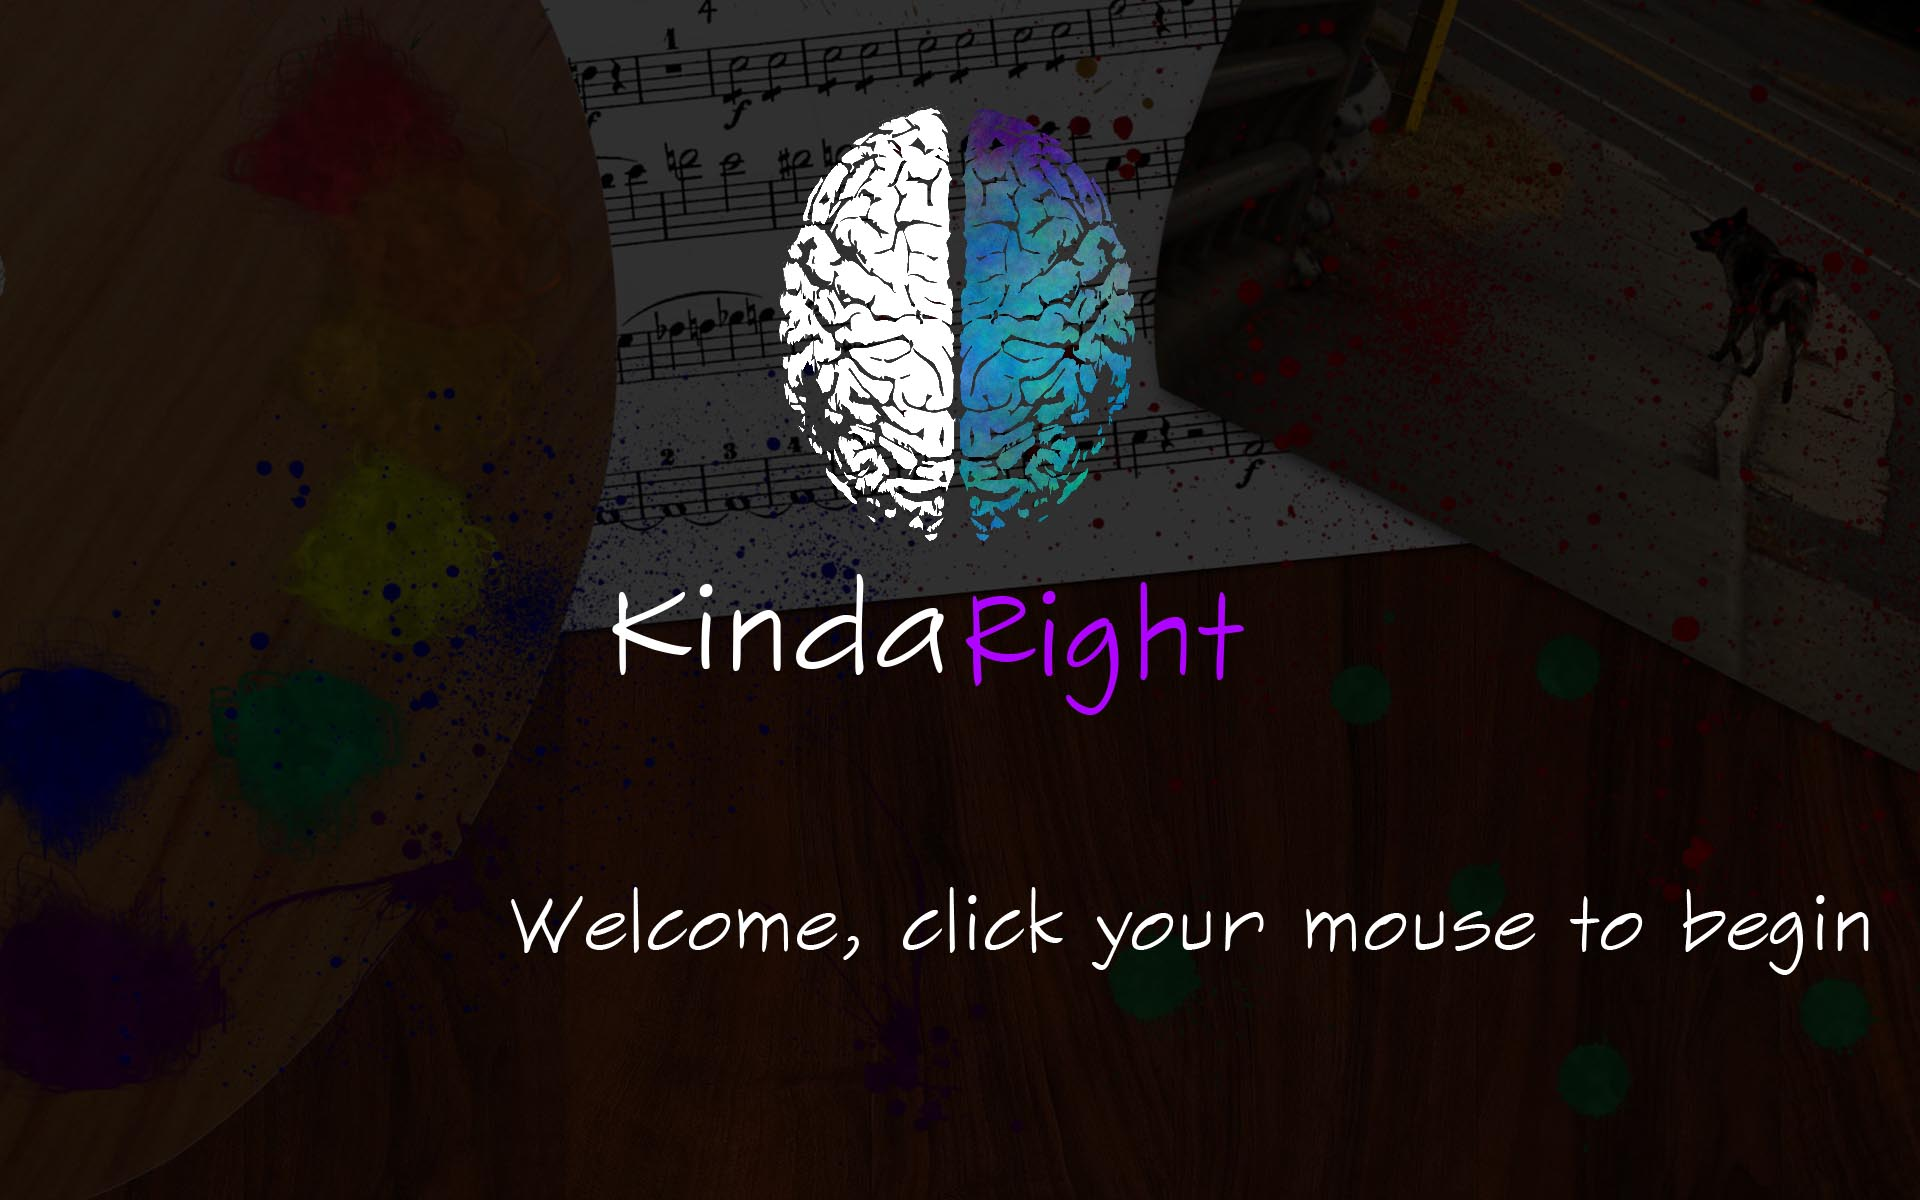
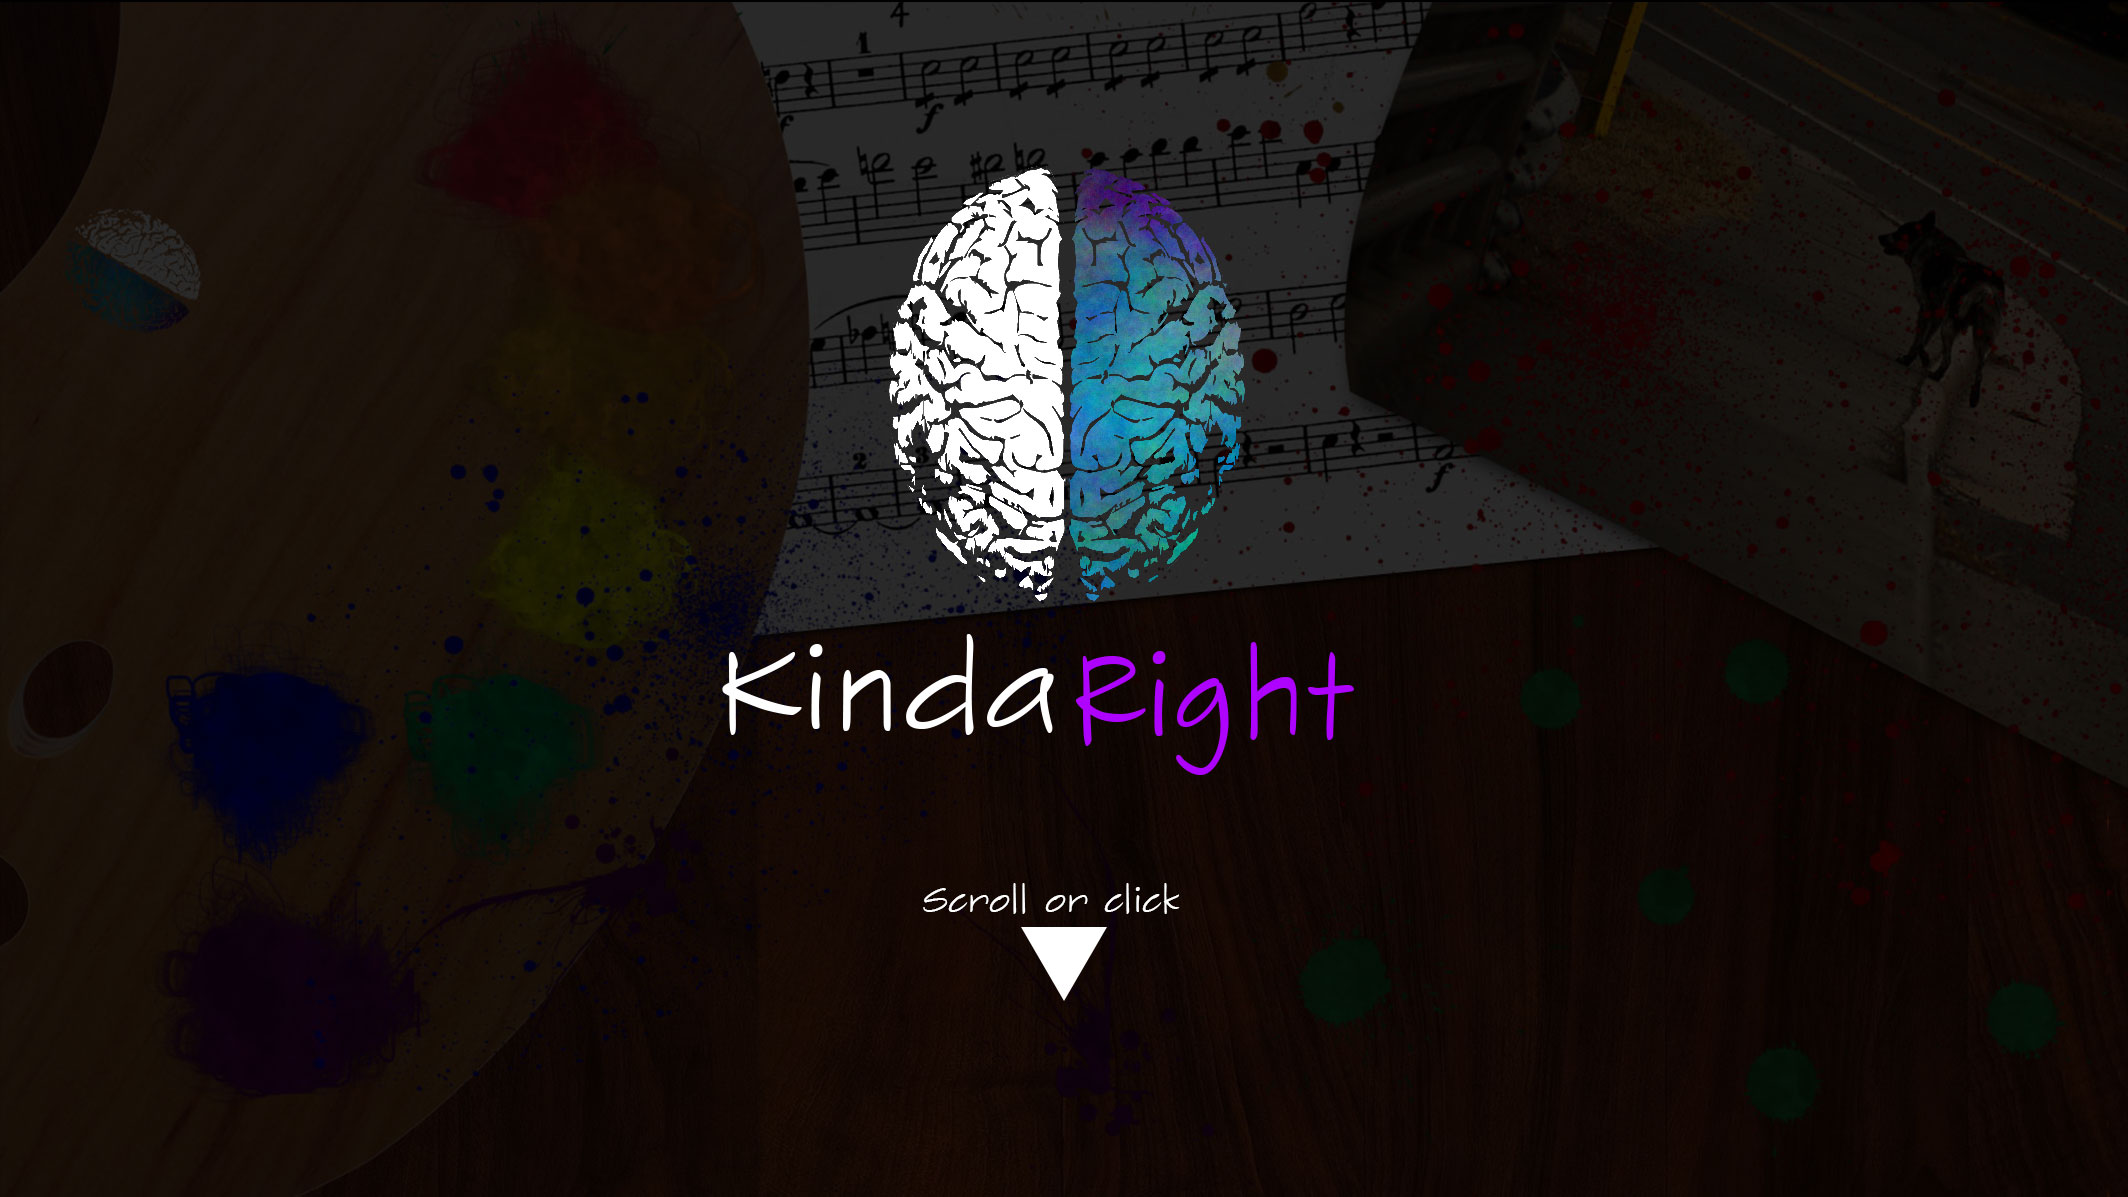
UPDATE: Design changes to main.ejs and user.ejs

diff --git a/public/stylesheets/style.css b/public/stylesheets/style.css
@@ -105,16 +105,28 @@ p {
 	/*-webkit-box-shadow: 0px 0px 12px 1px #000 inset;*/
 }
 
+.gradient-bg {
+	background: -webkit-linear-gradient(left, #000, #222, #000);
+	background: linear-gradient(left, #000, #222, #000);
+}
+
+.texture-bg {
+	background: rgba(0,0,0,.5) url("../images/texture-bg-translucent.jpg") repeat;
+
+
+}
+
 .page {
 	position: relative;
 	
 	min-height: 100%;
 	overflow: hidden;
 	
-	/*background: #111;*/
+	background: #000;
 	padding: 10px;
-	padding-left: 15%;
-	padding-right: 15%;
+	margin-top: 0;
+	margin-left: 15%;
+	margin-right: 15%;
 }
 
 .dark-head {
@@ -128,7 +140,9 @@ p {
 	
 	padding-top: 80px;
 	background: #44036f;
-	margin-bottom: 10px;
+	margin: 0;
+	padding-bottom: 10px;
+	padding-left: 16%;
 	min-height: 30%;
 	min-height: 30%;
 	/*max-height: 50%;*/
@@ -136,10 +150,7 @@ p {
 	background: url("../images/texture-bg.jpg") repeat;
 }
 
-.gradient-bg {
-	background: -webkit-linear-gradient(left, #000, #222, #000);
-	background: linear-gradient(left, #000, #222, #000);
-}
+
 
 .fine-print {
 	font-size: 14pt;
